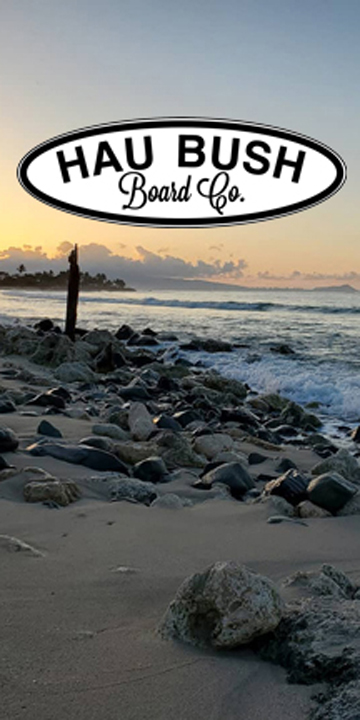
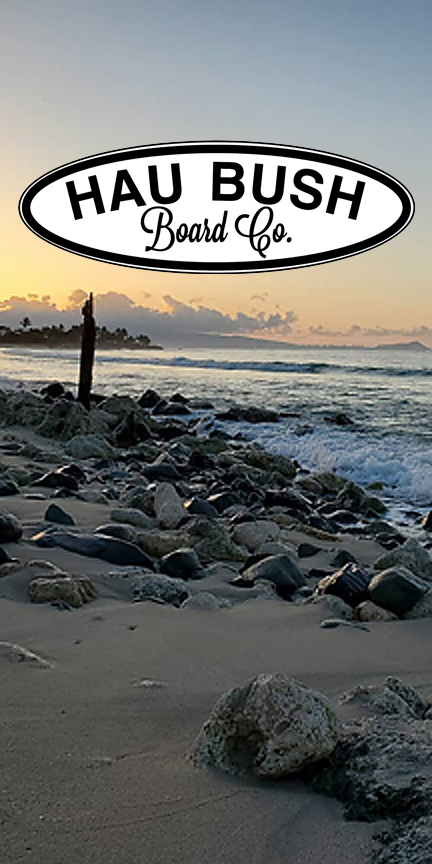
Home done

Changed region(s): [[0.0306, 0.1528, 0.9778, 0.3361]]

diff --git a/components/HomeComponent.js b/components/HomeComponent.js
@@ -1,32 +1,10 @@
 import React, { Component } from 'react';
-import { View, Text, ScrollView, FlatList } from 'react-native';
-import { Card } from 'react-native-elements';
-import { HOMEPAGE } from '../shared/homepage';
-
-function RenderItem({item}) {
-    if (item) {
-        return (
-            <Card style 
-                // featuredTitle={item.name}
-                image={require('./images/HauBushBoardCo_LOGO(1-21).png')}
-            >
-                <Text style={{margin: 10}}>
-                    {item.description}
-                </Text>
-            </Card>
-        );
-    }
-    return <View />;
-}
+import { Text, ScrollView, Image , ImageBackground} from 'react-native';
+import { Card, Button, Icon } from 'react-native-elements';
+// import * as Animatable from 'react-native-animatable';
+// import * as MailComposer from 'expo-mail-composer';
 
 class Home extends Component {
-
-    constructor(props) {
-        super(props);
-        this.state = {
-            homepage: HOMEPAGE
-        };
-    }
 
     static navigationOptions = {
         title: 'Home'
@@ -35,15 +13,152 @@ class Home extends Component {
     render() {
         return (
             <ScrollView>
-                <RenderItem 
-                    item={this.state.homepage.filter(homepage => homepage.featured)[0]}
-                />
+                        {/* <Text style={{marginBottom: 10}}>Kanani Langley, Owner - Artist</Text>
+                        
+                        <Image
+                            source={require("./images/HAUBUSH_Home.jpg")}
+                            style={{
+                                width: 395
+                            }}
+                            /> */}
+
+                <ImageBackground
+                        source={require("./images/HAUBUSH_Home.jpg")}
+                        style={{
+                        height: 700,
+                        width: 395,
+                        position: "relative", // because it's parent
+                        // top: 2,
+                        // left: 2
+                        }}
+                    >
+                        <Text
+                        style={{
+                            fontWeight: "bold",
+                            fontSize: 25,
+                            color: "white",
+                            position: "absolute", // child
+                            top: 40, // position where you want
+                            left: 120,
+                            right: 20,
+                        }}
+                        >Welcome to</Text>
+                        <Text
+                        style={{
+                            fontWeight: "bold",
+                            fontSize: 30,
+                            color: "yellow",
+                            textAlign: "center",
+                            position: "absolute", // child
+                            top: 330, // position where you want
+                            left: 20,
+                            right: 20,
+                        }}
+                        >
+                        Home of the Handcrafted Hawaiian Skateboards</Text>
+                        <Text
+                        style={{
+                            fontWeight: "bold",
+                            fontSize: 12,
+                            color: "white",
+                            textAlign: "center",
+                            position: "absolute", // child
+                            top: 600, // position where you want
+                            left: 20,
+                            right: 20,
+                        }}
+                        >Copyright © 2021 Hau Bush Board Co - All Rights Reserved.</Text>
+                        <Text
+                        style={{
+                            fontWeight: "regular",
+                            fontSize: 22,
+                            color: "white",
+                            textAlign: "center",
+                            position: "absolute", // child
+                            top: 450, // position where you want
+                            left: 20,
+                            right: 20,
+                        }}
+                        >Recycled...Reused...Reclaimed</Text>
+                        <Text
+                        style={{
+                            fontWeight: "regular",
+                            fontSize: 18,
+                            color: "yellow",
+                            textAlign: "center",
+                            position: "absolute", // child
+                            top: 500, // position where you want
+                            left: 20,
+                            right: 20,
+                        }}
+                        >“...made with aloha, protected by mana...”</Text>
+                    </ImageBackground>
             </ScrollView>
         );
     }
 }
 
 export default Home;
+
+// Recycled...Reused...Reclaimed
+// “...made with aloha, protected by mana...”
+
+
+// import React, { Component } from 'react';
+// import { View, Text, ScrollView, FlatList } from 'react-native';
+// import { Card } from 'react-native-elements';
+// import { HOMEPAGE } from '../shared/homepage';
+
+// function RenderItem({item}) {
+//     if (item) {
+//         return (
+//             <ScrollView>
+//             <Card style 
+//                 // featuredTitle={item.name}
+//                 image={require('./images/HAUBUSH_Home.jpg')}
+//             >
+//                 <Text style={{margin: 10}}>
+//                     {item.description}
+//                 </Text>
+//             </Card>
+//             </ScrollView>
+//         );
+//     }
+//     return <View />;
+// }
+
+// class Home extends Component {
+
+//     constructor(props) {
+//         super(props);
+//         this.state = {
+//             homepage: HOMEPAGE
+//         };
+//     }
+
+//     static navigationOptions = {
+//         title: 'Home'
+//     }
+
+//     render() {
+//         return (
+//             <ScrollView>
+//                 <RenderItem 
+//                     item={this.state.homepage.filter(homepage => homepage.featured)[0]}
+//                 />
+//             </ScrollView>
+//         );
+//     }
+// }
+
+// export default Home;
+
+
+
+
+
+
+
 
 // import React from "react";
 // import { ImageBackground, StyleSheet, Text, View } from "react-native";
